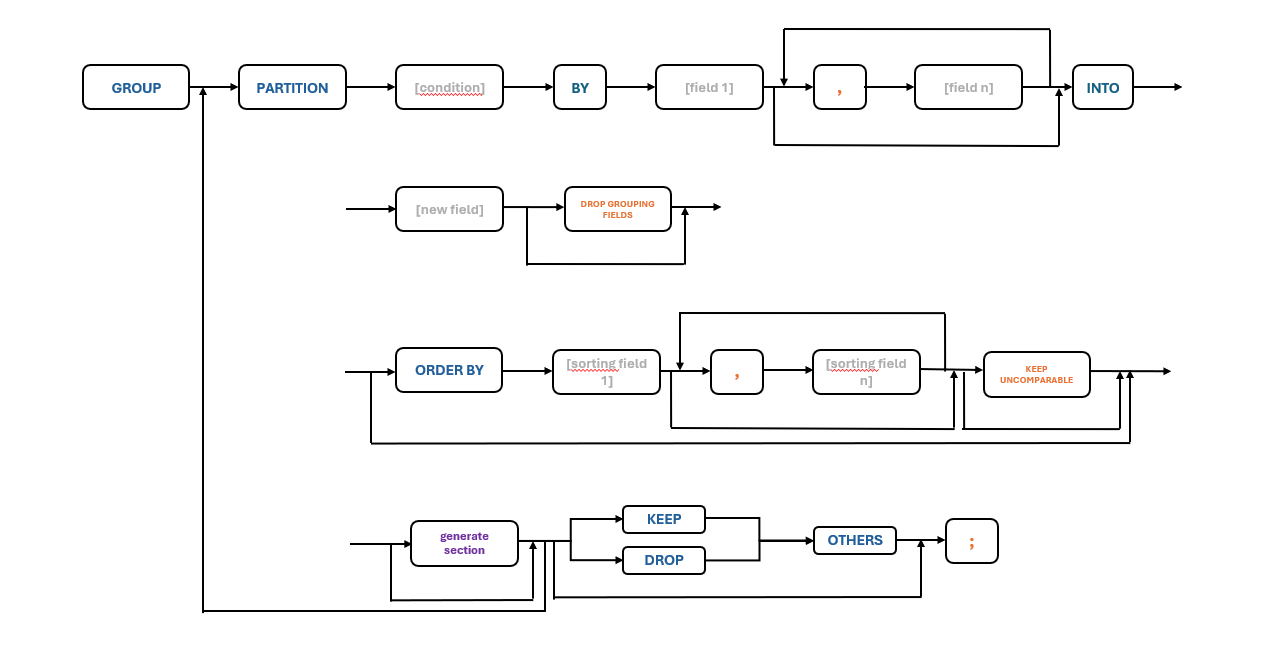
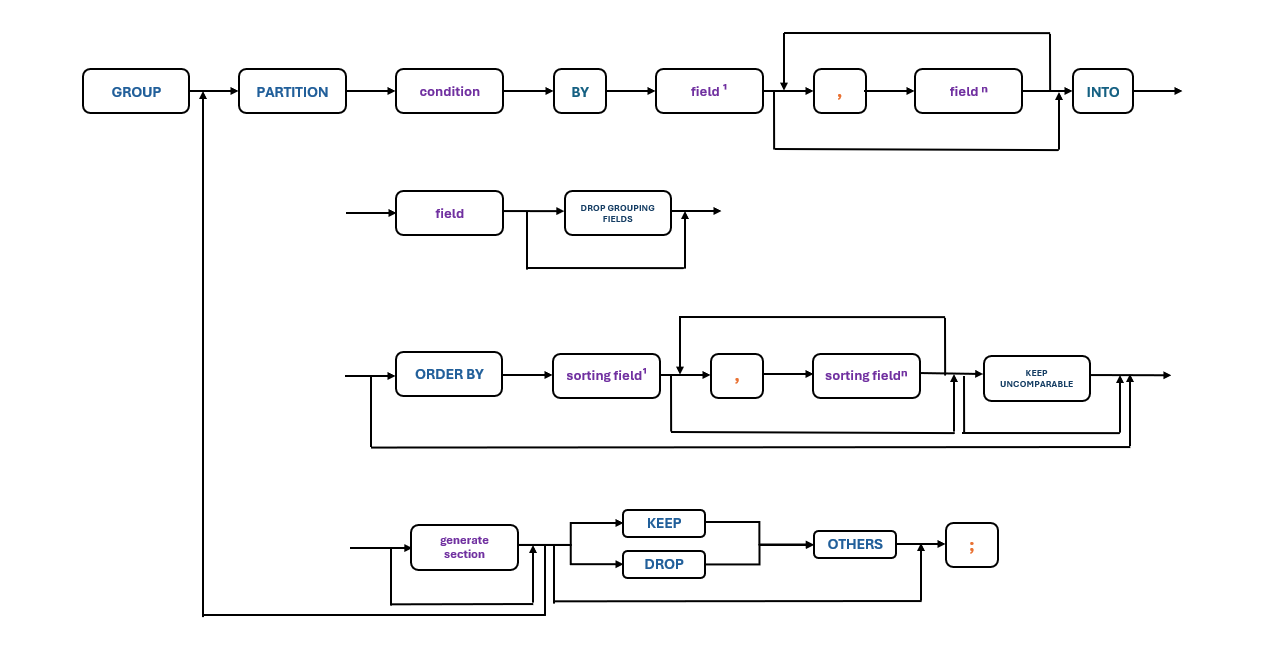
push

diff --git a/languageSpecification/condition.md b/languageSpecification/condition.md
@@ -1,0 +1,24 @@
+# Pre Condition Rule instruction
+
+The **PRECONDITION** clause specifies a logical condition that must be met before executing the instruction.
+
+
+## EBNF Notation
+  
+preconditionRule ::= 
+                'PRECONDITION' ['NOT']?
+                ( identifier | stringLiteral | numberLiteral | '(' preconditionRule ')' )
+                ( ( '=' | '!=' | '<' | '>' | '<=' | '>=' )
+                    ( identifier | stringLiteral| numberLiteral ) | 
+                    'IN_RANGE' ('(' | '[') numberLiteral ',' numberLiteral (')' | ']')
+                )?
+                ( ( 'AND' | 'OR' ) ['NOT']?
+                    ( identifier | stringLiteral | numberLiteral | '(' preconditionRule ')')
+                    (( '=' | '!=' | '<' | '>' | '<=' | '>=' )
+                        ( identifier | stringLiteral | numberLiteral )
+                        | 
+                        'IN_RANGE' ('(' | '[') numberLiteral ',' numberLiteral (')' | ']')
+                    )
+                )*
+
+
